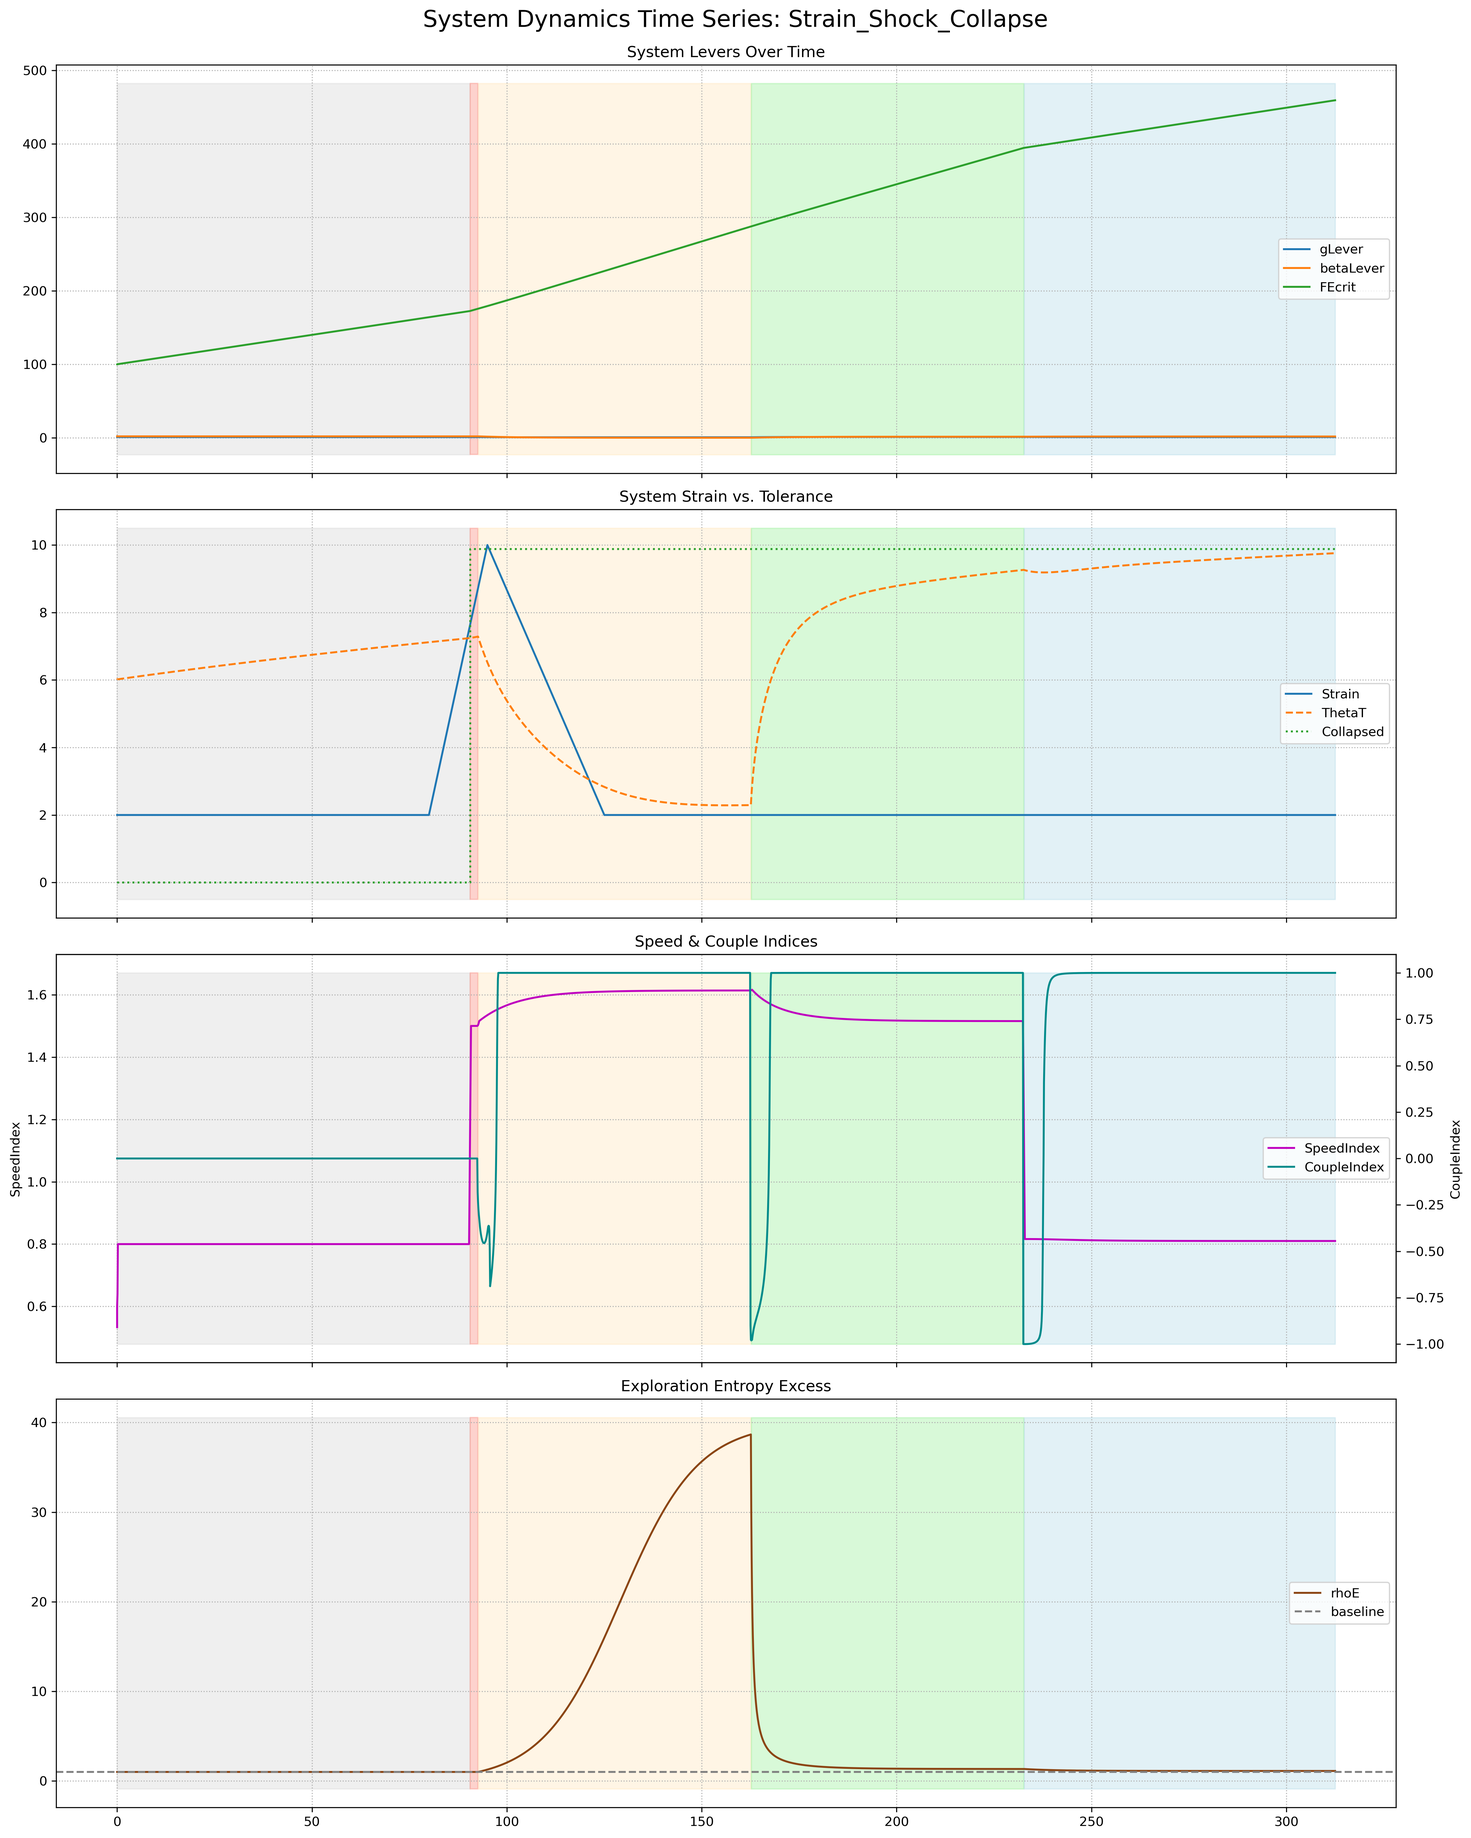
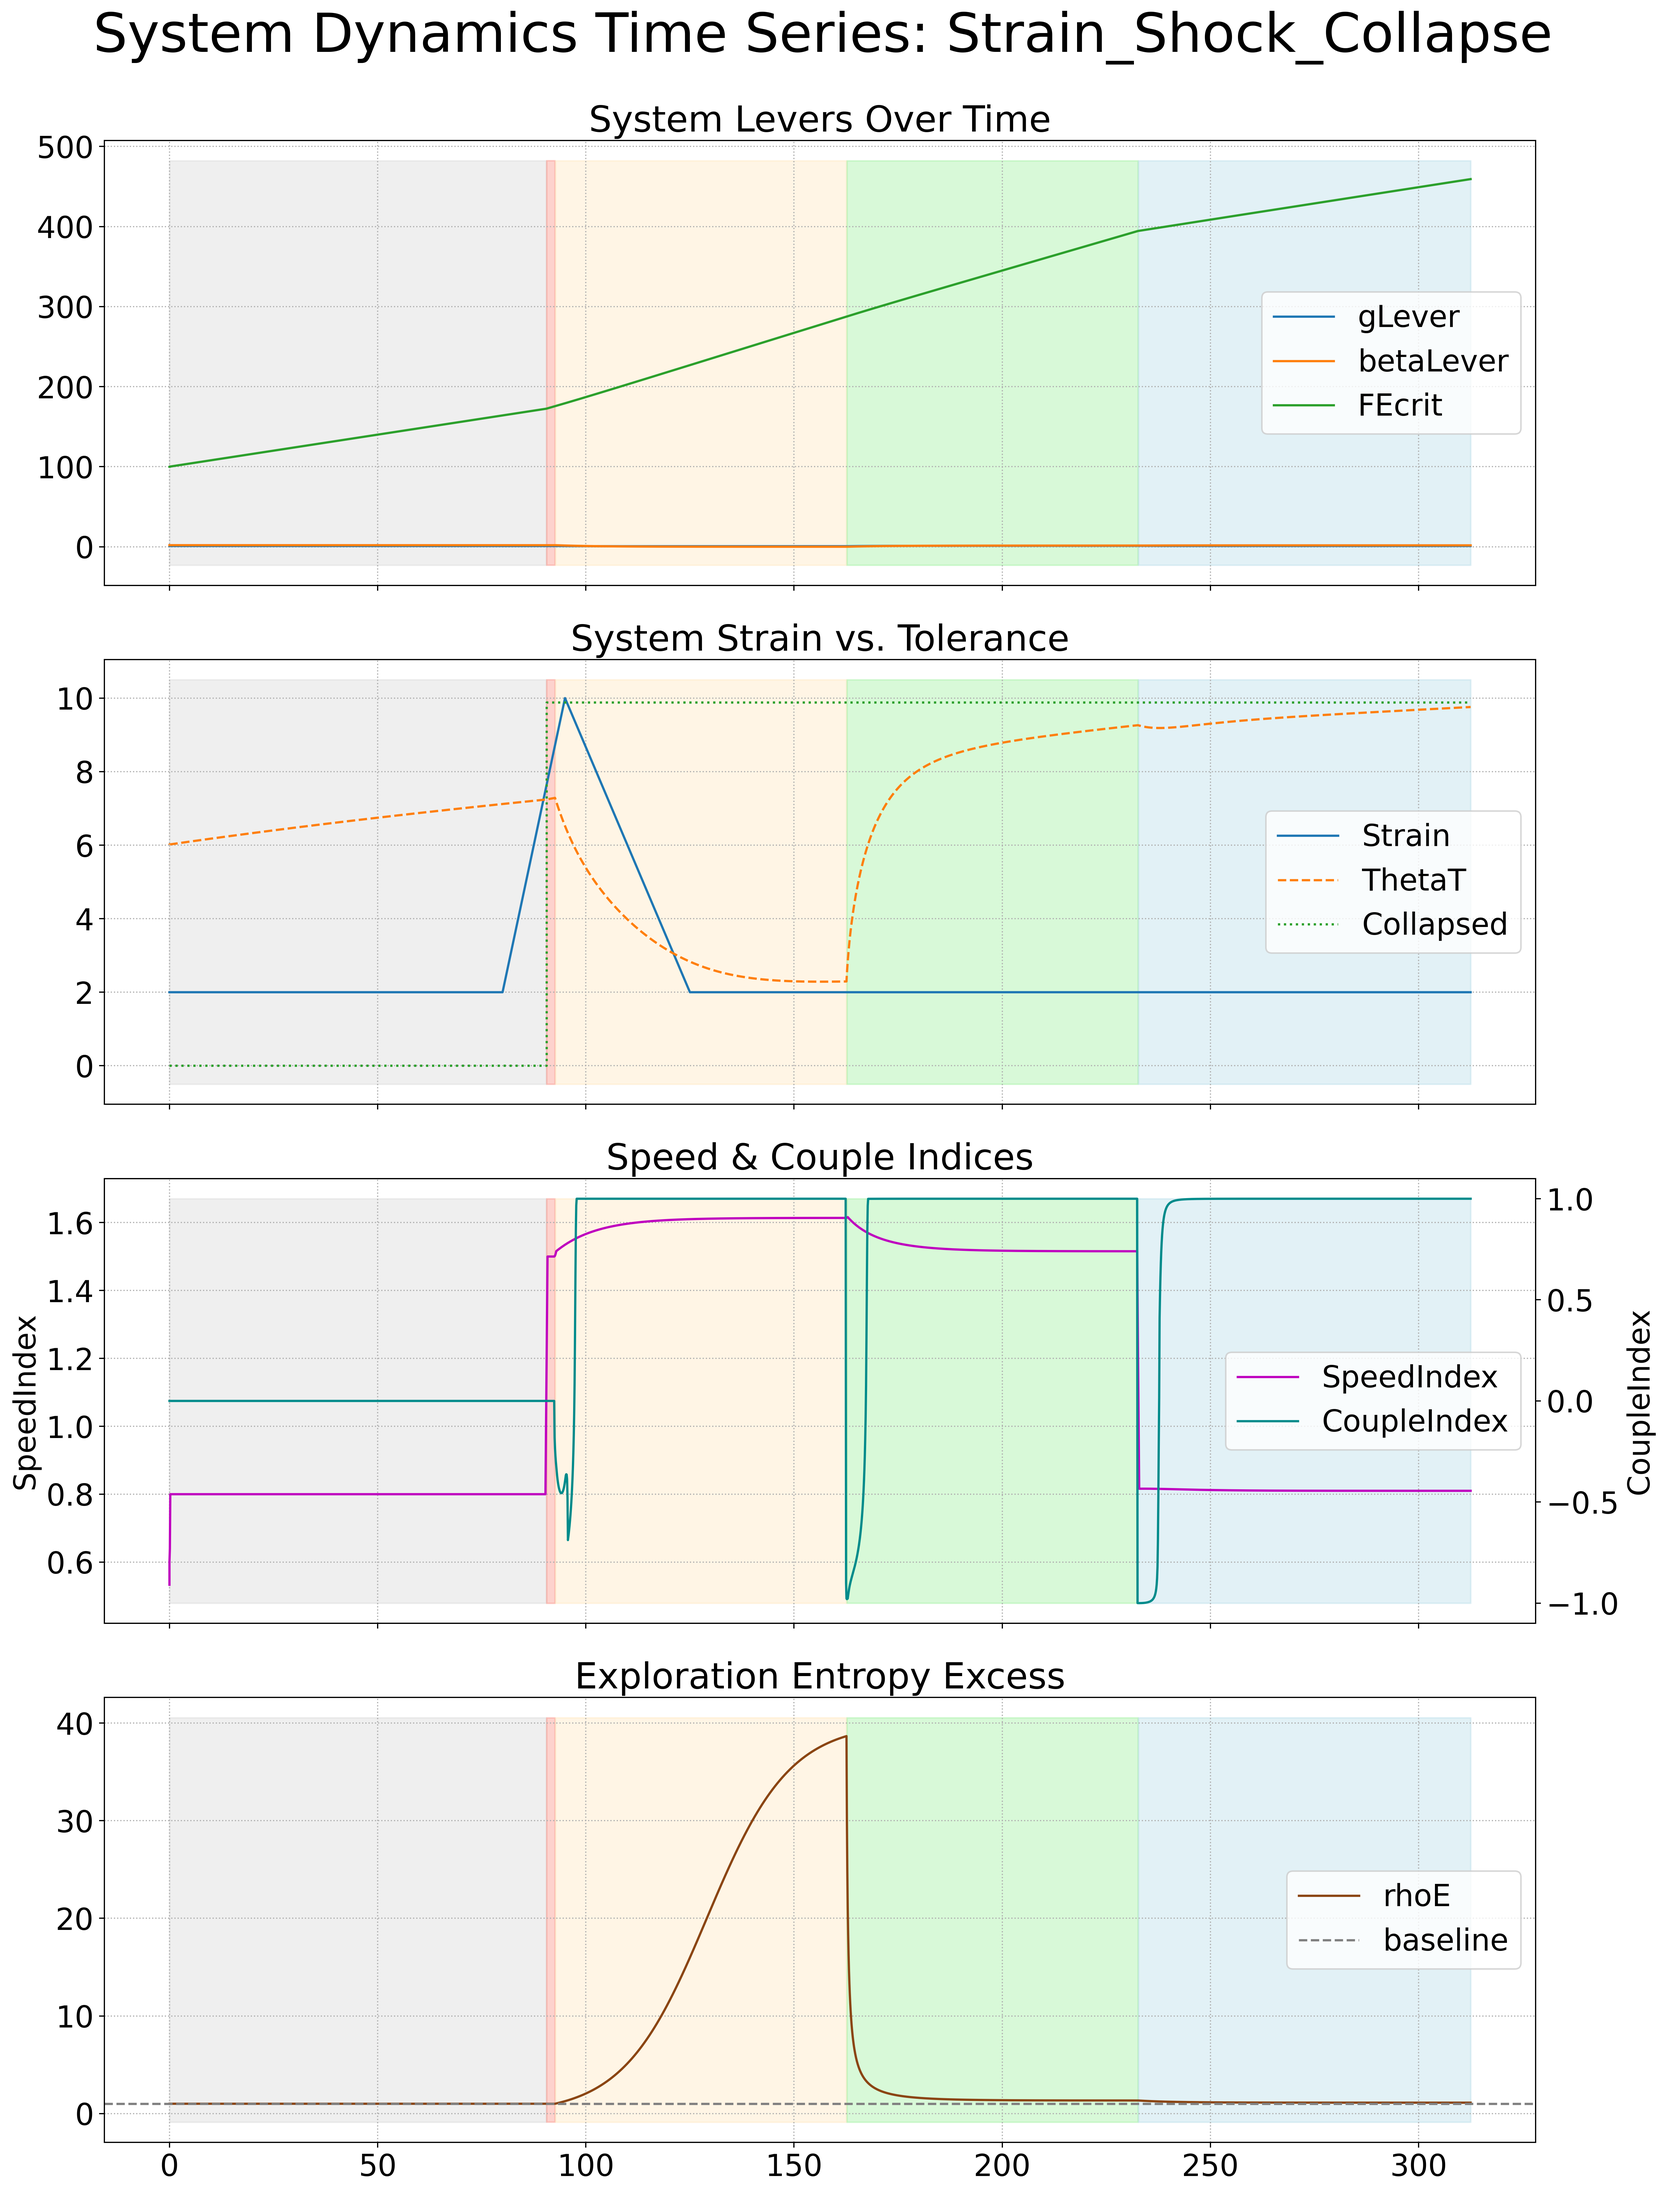
Finished

diff --git a/phoenix_loop_scenarios_sim.py b/phoenix_loop_scenarios_sim.py
@@ -2,9 +2,15 @@
 import numpy as np
 import pandas as pd
 import matplotlib.pyplot as plt
-from matplotlib.lines import Line2D # For custom legends
-import mpl_toolkits.mplot3d # For 3D plots
+from matplotlib.lines import Line2D  # For custom legends
+import mpl_toolkits.mplot3d  # For 3D plots
 import matplotlib as mpl
+
+FONT_SCALE = 2  # Double all text sizes in plots
+plt.rcParams.update({
+    'font.size': plt.rcParams.get('font.size', 10) * FONT_SCALE,
+    'savefig.dpi': 350
+})
 import os
 import json
 import sys
@@ -433,12 +439,12 @@ def robust_plot_simulation_results(df, params, title_suffix=""):
     
     # Add a title to the whole figure
     fig_title = "System Dynamics Time Series: " + title_suffix if title_suffix else "System Dynamics Time Series"
-    fig.suptitle(fig_title, fontsize=18, y=0.99) # Use fig.suptitle for figure-level title
+    fig.suptitle(fig_title, fontsize=36, y=1.02)  # Use fig.suptitle for figure-level title
     plt.subplots_adjust(top=0.96) # Adjust layout to make room for the title
 
     # Construct the save path and save the figure
     save_path = os.path.join("results", f"sim_{title_suffix}_time_series.png")
-    plt.savefig(save_path, dpi=300, bbox_inches='tight')
+    plt.savefig(save_path, dpi=350, bbox_inches='tight')
     
     # Close the figure to free up memory
     plt.close(fig)
@@ -479,16 +485,16 @@ def robust_plot_diagnostic_trajectories(df, title_suffix=""):
 
 
     sc = ax_2d.scatter(df['SpeedIndex'], df['CoupleIndex'], c=rhoE_capped_for_color, cmap='viridis', s=20, alpha=0.65, vmin=0, vmax=max(1.0, rhoE_cap_val)) # Ensure vmax is at least 1
-    ax_2d.set_xlabel('SpeedIndex', fontsize=12); ax_2d.set_ylabel('CoupleIndex', fontsize=12)
-    ax_2d.set_title('Trajectory in (SpeedIndex, CoupleIndex) Plane\nColor-coded by rhoE (capped)', fontsize=14)
+    ax_2d.set_xlabel('SpeedIndex', fontsize=24); ax_2d.set_ylabel('CoupleIndex', fontsize=24)
+    ax_2d.set_title('Trajectory (SpeedIndex, CoupleIndex)', fontsize=26)
     ax_2d.set_xlim(left=xlim_left) 
     ax_2d.set_ylim(-1.15, 1.15); cbar = plt.colorbar(sc, ax=ax_2d, aspect=30)
-    cbar.set_label('rhoE (capped)', fontsize=12); ax_2d.grid(True, linestyle=':', alpha=0.7)
+    cbar.set_label('rhoE (capped)', fontsize=24); ax_2d.grid(True, linestyle=':', alpha=0.7)
     
     ax_2d.plot(df['SpeedIndex'].iloc[0], df['CoupleIndex'].iloc[0], 'o', color='lime', markersize=10, label='Start', markeredgecolor='black', zorder=5)
     ax_2d.plot(df['SpeedIndex'].iloc[-1], df['CoupleIndex'].iloc[-1], 'X', color='red', markersize=10, label='End', markeredgecolor='black', zorder=5)
     ax_2d.plot(df['SpeedIndex'], df['CoupleIndex'], color='dimgray', linestyle='-', linewidth=0.8, alpha=0.5, zorder=4) 
-    ax_2d.legend(fontsize=10)
+    ax_2d.legend(fontsize=20)
 
     # 3D Plot
     ax_3d = fig_traj.add_subplot(1, 2, 2, projection='3d')
@@ -496,13 +502,16 @@ def robust_plot_diagnostic_trajectories(df, title_suffix=""):
     
     sc_3d = ax_3d.scatter(df['SpeedIndex'], df['CoupleIndex'], rhoE_plot_3d_capped, 
                           c=df['t'], cmap='plasma', s=20, alpha=0.65) 
-    ax_3d.set_xlabel('SpeedIndex', fontsize=12); ax_3d.set_ylabel('CoupleIndex', fontsize=12)
-    ax_3d.set_zlabel('rhoE (capped)', fontsize=12)
-    ax_3d.set_title('Trajectory in (Speed, Couple, rhoE) Space\nColor-coded by Time', fontsize=14)
+    ax_3d.set_xlabel('SpeedIndex', fontsize=16); ax_3d.set_ylabel('CoupleIndex', fontsize=16)
+    ax_3d.set_zlabel('rhoE (capped)', fontsize=16)
+    ax_3d.set_title('Trajectory (Speed, Couple, rhoE)', fontsize=26)
+    ax_3d.tick_params(axis='both', which='major', labelsize=12)
+    ax_3d.zaxis.set_tick_params(labelsize=12)
+
     ax_3d.set_zlim(0, max(1.0, rhoE_cap_val * 1.05)) # Ensure zlim is reasonable
 
     cbar_3d = plt.colorbar(sc_3d, ax=ax_3d, pad=0.12, fraction=0.03, aspect=30) 
-    cbar_3d.set_label('Time (t)', fontsize=12)
+    cbar_3d.set_label('Time (t)', fontsize=24)
     
     ax_3d.plot([df['SpeedIndex'].iloc[0]], [df['CoupleIndex'].iloc[0]], [rhoE_plot_3d_capped.iloc[0]],
                'o', color='lime', markersize=10, label='Start', markeredgecolor='black', zorder=10)
@@ -510,14 +519,14 @@ def robust_plot_diagnostic_trajectories(df, title_suffix=""):
                'X', color='red', markersize=10, label='End', markeredgecolor='black', zorder=10)
     ax_3d.plot(df['SpeedIndex'], df['CoupleIndex'], rhoE_plot_3d_capped, 
                color='dimgray', linestyle='-', linewidth=0.8, alpha=0.5, zorder=1) 
-    ax_3d.legend(loc='upper left', bbox_to_anchor=(0.02,0.98), fontsize=10) 
+    ax_3d.legend(loc='upper left', bbox_to_anchor=(0.02,0.98), fontsize=20)
 
     plt.tight_layout(rect=[0,0,1,0.94]) 
     fig_traj_title = "Diagnostic Trajectories: " + title_suffix if title_suffix else "Diagnostic Trajectories"
-    plt.suptitle(fig_traj_title, fontsize=18, y=0.97) 
+    plt.suptitle(fig_traj_title, fontsize=36, y=0.97)
 
     save_path = os.path.join("results", f"sim_{title_suffix}_trajectory.png")
-    plt.savefig(save_path, dpi=300, bbox_inches='tight')
+    plt.savefig(save_path, dpi=350, bbox_inches='tight')
     plt.close()
 
 def compute_simulation_summary(df, simulator, scenario_name):

diff --git a/phoenix_loop_robustness_sim.py b/phoenix_loop_robustness_sim.py
@@ -3,10 +3,16 @@ import numpy as np
 import pandas as pd
 import matplotlib.pyplot as plt
 from matplotlib.lines import Line2D
-import mpl_toolkits.mplot3d # For 3D plots
+import mpl_toolkits.mplot3d  # For 3D plots
 from collections import Counter
 from scipy.stats import entropy as shannon_entropy # Renamed to avoid conflict
-from phoenix_loop_scenarios_sim import DEFAULT_PARAMS_MULTI 
+from phoenix_loop_scenarios_sim import DEFAULT_PARAMS_MULTI
+
+FONT_SCALE = 2
+plt.rcParams.update({
+    'font.size': plt.rcParams.get('font.size', 10) * FONT_SCALE,
+    'savefig.dpi': 350
+})
 # --- Agent and ABM System ---
 class SimpleAgent:
     def __init__(self, agent_id, num_activity_levels, initial_activity_state=None):
@@ -376,19 +382,19 @@ def robust_plot_diagnostic_trajectories(df, title_suffix=""): # From previous, s
     rhoE_capped_for_color=np.clip(rhoE_plot.fillna(0),0,rhoE_cap_val); speed_max_val_plot=df['SpeedIndex'].max() if not df['SpeedIndex'].empty else 0
     xlim_left=(-0.1*speed_max_val_plot) if speed_max_val_plot>0 else -0.1
     sc=ax_2d.scatter(df['SpeedIndex'],df['CoupleIndex'],c=rhoE_capped_for_color,cmap='viridis',s=20,alpha=0.65,vmin=0,vmax=max(1.0,rhoE_cap_val))
-    ax_2d.set_xlabel('SpeedIndex',fontsize=12); ax_2d.set_ylabel('CoupleIndex',fontsize=12); ax_2d.set_title('Trajectory in (SpeedIndex, CoupleIndex) Plane\nColor-coded by rhoE (capped)',fontsize=14)
-    ax_2d.set_xlim(left=xlim_left); ax_2d.set_ylim(-1.15,1.15); cbar=plt.colorbar(sc,ax=ax_2d,aspect=30); cbar.set_label('rhoE (capped)',fontsize=12); ax_2d.grid(True,ls=':',alpha=0.7)
+    ax_2d.set_xlabel('SpeedIndex', fontsize=24); ax_2d.set_ylabel('CoupleIndex', fontsize=24); ax_2d.set_title('Trajectory in (SpeedIndex, CoupleIndex) Plane\nColor-coded by rhoE (capped)', fontsize=28)
+    ax_2d.set_xlim(left=xlim_left); ax_2d.set_ylim(-1.15,1.15); cbar=plt.colorbar(sc, ax=ax_2d, aspect=30); cbar.set_label('rhoE (capped)', fontsize=24); ax_2d.grid(True, ls=':', alpha=0.7)
     ax_2d.plot(df['SpeedIndex'].iloc[0],df['CoupleIndex'].iloc[0],'o',color='lime',ms=10,label='Start',mec='k',zorder=5); ax_2d.plot(df['SpeedIndex'].iloc[-1],df['CoupleIndex'].iloc[-1],'X',color='r',ms=10,label='End',mec='k',zorder=5)
-    ax_2d.plot(df['SpeedIndex'],df['CoupleIndex'],color='dimgray',ls='-',lw=0.8,alpha=0.5,zorder=4); ax_2d.legend(fontsize=10)
+    ax_2d.plot(df['SpeedIndex'], df['CoupleIndex'], color='dimgray', ls='-', lw=0.8, alpha=0.5, zorder=4); ax_2d.legend(fontsize=20)
     ax_3d=fig_traj.add_subplot(1,2,2,projection='3d'); rhoE_plot_3d_capped=np.clip(df['rhoE'].fillna(0),0,rhoE_cap_val)
     sc_3d=ax_3d.scatter(df['SpeedIndex'],df['CoupleIndex'],rhoE_plot_3d_capped,c=df['t'],cmap='plasma',s=20,alpha=0.65)
-    ax_3d.set_xlabel('SpeedIndex',fontsize=12); ax_3d.set_ylabel('CoupleIndex',fontsize=12); ax_3d.set_zlabel('rhoE (capped)',fontsize=12)
-    ax_3d.set_title('Trajectory in (Speed, Couple, rhoE) Space\nColor-coded by Time',fontsize=14); ax_3d.set_zlim(0,max(1.0,rhoE_cap_val*1.05))
-    cbar_3d=plt.colorbar(sc_3d,ax=ax_3d,pad=0.12,fraction=0.03,aspect=30); cbar_3d.set_label('Time (t)',fontsize=12)
+    ax_3d.set_xlabel('SpeedIndex', fontsize=24); ax_3d.set_ylabel('CoupleIndex', fontsize=24); ax_3d.set_zlabel('rhoE (capped)', fontsize=24)
+    ax_3d.set_title('Trajectory in (Speed, Couple, rhoE) Space\nColor-coded by Time', fontsize=28); ax_3d.set_zlim(0, max(1.0, rhoE_cap_val * 1.05))
+    cbar_3d = plt.colorbar(sc_3d, ax=ax_3d, pad=0.12, fraction=0.03, aspect=30); cbar_3d.set_label('Time (t)', fontsize=24)
     ax_3d.plot([df['SpeedIndex'].iloc[0]],[df['CoupleIndex'].iloc[0]],[rhoE_plot_3d_capped.iloc[0]],'o',color='lime',ms=10,label='Start',mec='k',zorder=10)
     ax_3d.plot([df['SpeedIndex'].iloc[-1]],[df['CoupleIndex'].iloc[-1]],[rhoE_plot_3d_capped.iloc[-1]],'X',color='r',ms=10,label='End',mec='k',zorder=10)
-    ax_3d.plot(df['SpeedIndex'],df['CoupleIndex'],rhoE_plot_3d_capped,color='dimgray',ls='-',lw=0.8,alpha=0.5,zorder=1); ax_3d.legend(loc='upper left',bbox_to_anchor=(0.02,0.98),fontsize=10)
-    plt.tight_layout(rect=[0,0,1,0.94]); fig_traj_title="Diagnostic Trajectories: "+title_suffix if title_suffix else "Diagnostic Trajectories"; plt.suptitle(fig_traj_title,fontsize=18,y=0.97); plt.show()
+    ax_3d.plot(df['SpeedIndex'], df['CoupleIndex'], rhoE_plot_3d_capped, color='dimgray', ls='-', lw=0.8, alpha=0.5, zorder=1); ax_3d.legend(loc='upper left', bbox_to_anchor=(0.02,0.98), fontsize=20)
+    plt.tight_layout(rect=[0,0,1,0.94]); fig_traj_title="Diagnostic Trajectories: "+title_suffix if title_suffix else "Diagnostic Trajectories"; plt.suptitle(fig_traj_title, fontsize=36, y=0.97); plt.show()
 
 
 # --- Main Simulation Execution ---

diff --git a/phoenix_loop_classifier_accuracy_ML.py b/phoenix_loop_classifier_accuracy_ML.py
@@ -10,7 +10,13 @@ from sklearn.ensemble import RandomForestClassifier
 from sklearn.metrics import classification_report, confusion_matrix, ConfusionMatrixDisplay
 from sklearn.preprocessing import StandardScaler
 import pandas as pd
-import joblib # For saving the model
+import joblib  # For saving the model
+
+FONT_SCALE = 2
+plt.rcParams.update({
+    'font.size': plt.rcParams.get('font.size', 10) * FONT_SCALE,
+    'savefig.dpi': 350
+})
 
 # --- Configuration Parameters ---
 # These serve as local defaults if no external config is imported,
